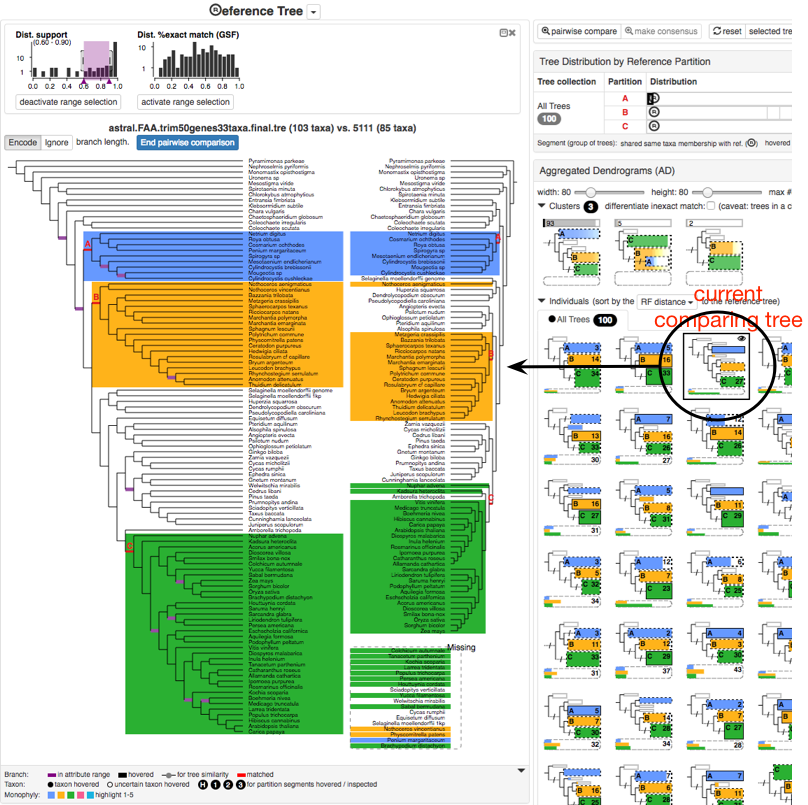
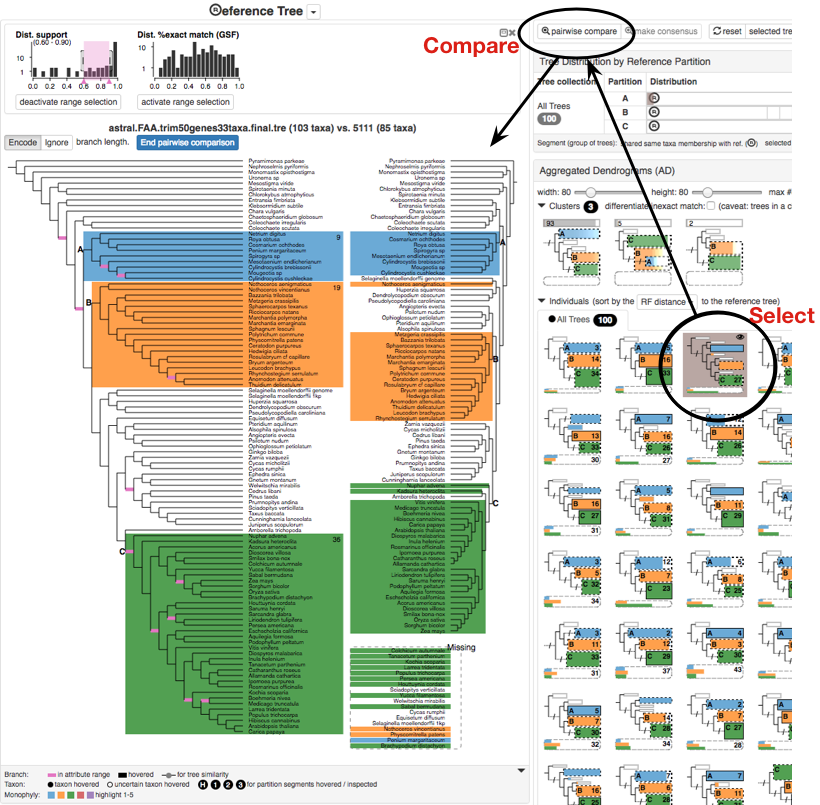
Updated readme

diff --git a/README.md b/README.md
@@ -1,6 +1,12 @@
 VisPhy: Visual Comparison of Phylogenetic Trees
 ====
 
+Documentation Authors: [Zipeng Liu](http://www.cs.ubc.ca/~zipeng/), [Tamara Munzner](http://www.cs.ubc.ca/~tmm/)
+
+## 1 Overview
+
+### 1.1 What is VisPhy
+
 Visually compare a reference phylogenetic tree against some other phylogenetic trees with roughly the same set of taxa to check support and conflict of reference.  
 
 Potential comparisons:
@@ -10,61 +16,94 @@ Potential comparisons:
 * A gene tree vs. other gene trees
 
 
-What VisPhy is NOT for
-----
+### 1.2 What VisPhy is NOT for
 
 * Visual presentation of one phylogenetic tree 
 * Statistical analysis of phylogenetic hypotheses
 * Rigorous analysis of branch lengths in trees (we focus on topology and taxon memberships)
 
-What VisPhy cannot deal with currently but might be able to in the future?
-----
+### 1.3 What VisPhy cannot deal with currently but might be able to in the future?
 
-* Duplicates (paralogs)
-* Current data scale: #nodes < 150 (for best visual effects), #trees < 1000.  This numbers are for best visual effects and 
+* We cannot deal with paralogs.  If a tree contains duplicate copies of a taxon, which are identified by the same label, the pre-processor will fail.
+If they have different labels such as "A_1" and "A_2", you need to be alert that we treat them as they were orthologs: "A_1" in a tree
+can only match "A_1" in another tree, not "A_2" or "A".
+* Current data scale: #nodes < 150 (for best visual effects), #trees < 1000.  These numbers are for best visual effects and 
 performance, but there is no hard limit.  Dataset larger than this can still be processed, but the interface might be slow and require a lot of mouse scrolling.
 
 
-A Short Walk-through of VisPhy
-----
+## 2 A Short Walk-through
 
-![visphy-introduction](assets/images/teaser.png)
+![visphy-introduction](assets/images/overview.png)
+Figure 1
 
-We demonstrate VisPhy interface with a sampled dataset from [the 1KP pilot study](https://gigascience.biomedcentral.com/articles/10.1186/2047-217X-3-17).
+We demonstrate VisPhy with a sampled dataset from [the 1KP pilot study](https://gigascience.biomedcentral.com/articles/10.1186/2047-217X-3-17).
 We compare a species trees inferred using [ASTRAL](https://github.com/smirarab/ASTRAL) with 100 sampled gene trees.
 We do not assume phylogenetic plausibility of this dataset, but only use it for demonstration.
 
-The reference tree (a) is shown on the left, with distributions of branch attribute values (a1) and a detailed dendrogram.
-The purple background range slider in the support value histogram highlights the branches that fall into it in the 
-dendrogram below with purple thick lines.  Here, we have selected three **named branches** A, B and C.
+As shown in Fig.1, the reference tree \[R\] is shown on the left, with distributions of branch attribute values \[R-1\]
+and a detailed dendrogram \[R-2\].
+The pink background range slider in the support value histogram \[R-1\] highlights the branches that fall into it in the 
+dendrogram below with pink thick lines.  
 
-We show different aspects of the tree collection on the right.  The tree distribution view (b) shows how trees are binned
-by the local **taxa membership** of A, B, and C respectively.  The aggregated dendrograms (AD for short) (c) tells the 
-relationships among A, B and C with a much simpler and smaller form of dendrogram.  
-According to the cluster ADs (c1), there are basiclly three different kinds of relationships:
-`(A,(B,C))`, `(C,(A)B)` and `(B,C)` (all taxa in A is missing from that gene tree), while almost all trees have the first kind.
+Here, we have selected three **named branches** A, B and C, whose clade is highlighted in blue, orange, and green.
+We show different aspects of the tree collection \[TC\] on the right.
+The aggregated dendrograms (AD) in the view \[TC-AD\] tells the relationships among A, B and C 
+with a much simpler and smaller yet meaningful form of dendrogram.  
+We find the closest monophyly to A, B and C in each tree (called matches), which is displayed as a block in the AD,
+and elude everything else except some nearby clades as their context information.
+As it still requires quite a lot cognitive effort to browse and compare dozens or hundreds of ADs in \[TC-AD-2\],
+we cluster all ADs according to the relationships among their named clades.
+In \[TC-AD-1\], it clearly shows that there are basiclly three different kinds of relationships:
+`(A,(B,C))`, `(C,(A)B)` and `(B,C)` (all taxa in A is missing from that gene tree), 
+while almost all trees are of the first kind.
 Within each cluster, the "backbone" connections among A, B and C are the same, but the groupings of other taxa outside
-of the named clades can be different.
-You can also see each individual tree as a AD in (c2), and pairwsie compare it with the reference tree in details, as
-shown in the figure below.
+of the named clades can be different since we consider this context information irrelevant.
 
-Auxiliary views (d) include a list of the tree (gene) names, a list of taxon names, 
-tree similarity which projects each tree to a dot in a two dimensional space for a sense of tree distances, and 
-distribution of branch attribute values of the corresponding branches (defined as the the closest or the most similar branch
-of a tree in the tree collection to a named branch in the reference).
+While AD tells the connection **among** named clades, the tree distribution \[TC-TD\] is for taxa membership **within**
+named clades.  Each row shows how trees are binned by the local **taxa membership** of a specific named clade
+with partial segments.  A segment represents a subset of trees that share the same set of taxa (but not necessarily
+the same topology), and the first segment with a circled "R" mark represents the subset that agrees with the reference
+tree.  Long tail is often observed because of different missing taxa across gene trees.
+
+![visphy-pairwise-comparison](assets/images/hover-select.png)
+Figure 2
+
+To check which set of taxa a segment agrees on, you can use the "taxa membership inspection" (alt+click a segment to bring
+out a menu), as shown in Fig. 2 (a).  An aligned column of dots in the reference tree points out the taxa group shared 
+by a numbered segment.  We are inspecting three segments in Fig.2, which is convinient way to compare alternative 
+taxa group to the reference.
+
+If you hover a segment, you can see where are these trees distributed by other named clades and also their ADs with 
+black border (Fig. 2 (b)).  You can also click a segment or a cluster AD to select a subset of trees, which highlights
+those trees in other distributions in brown background (Fig. 2 (c)).  This highlight mechanism can reveal some 
+phylgenetic interaction between different genes, which might become an interesting topic for you to study later,
+such as the subset of trees that agrees with reference on one clade has different groupings for another clade.
+Along with the cluster AD and sub-collection management (introduced later in 4.5), you are able to find trees by
+various criteria.
+
 
 ![visphy-pairwise-comparison](assets/images/pairwise-comparison.png)
+Figure 3
 
+It is always necessary to see a specific tree in details on demand.  Once you select a target tree, you can pairwise
+compare it with the reference tree with a taxon-to-taxon "butterfly" view, as illustrated in Fig. 3.  Taxa in named
+clades are colored accordingly, and hovering on a taxon in one tree triggers a pointer to the same taxon in the other
+tree.
 
-Comparison Computation
-----
+Auxiliary views include a list of the tree (gene) names, a list of taxon names, 
+tree similarity (\[TC-TS\] in Fig. 1) which projects each tree to a dot in a two dimensional space 
+for a sense of tree distances, and 
+distribution of branch attribute values of the closest matched branches (\[TC-CBAE\] in Fig. 1).
 
+## 3 Matching Computation
+
+Here we describe the computation for matching branches between the reference tree and a tree in the tree collection.
 For each branch in the reference tree, we find the the most similar branch in each tree of the tree collection, which
 we call **corresponding branch**.  As we focus on taxa memberships, the similarity function is the 
 [Jaccard Index](https://en.wikipedia.org/wiki/Jaccard_index)
-of two sets of taxa, one from the reference tree, one from the tree collection.
+of two sets of taxa (intersection over union), one from the reference tree, one from the tree collection.
 
-If trees have missing taxa, we calculate the jaccard function after excluding the missing from the two sets.
+If trees have missing taxa, we calculate the Jaccard function after excluding the missing from the two sets.
 
 ```
 Similarity(A, Reference, B, Tree) = JaccardIndex(A - Tree.missing, B - Reference.missing)
@@ -72,81 +111,111 @@ Similarity(A, Reference, B, Tree) = JaccardIndex(A - Tree.missing, B - Reference
 
 `A` is a monophyletic set of taxa in `Reference`, and `B` also a monophyletic set of taxa in `Tree`.  
 `Reference.missing` is the set of missing taxa from the reference tree, which is usually none.
-`Tree.missing` is the set of missing taxa from `Tree` in the tree collection, which is usually not none for a gene tree.
+`Tree.missing` is the set of missing taxa from `Tree` in the tree collection, which is usually non-zero for a gene tree.
 
-If there exists a monophyly `B` in `Tree` such that `Similarity(A, Reference, B, Tree) = 1`, we denote `B` as an
-**exact match** in `Tree` for reference branch `A` (branch and monophyletic taxa set is used interchangeablly here).
-If `B` is the the branch with the highest similarity but does not score 1, it is considered an **inexact match**.
+An **exact match** in `Tree` for reference branch `A` is found if there exists
+a monophyly `B` in `Tree` such that `Similarity(A, Reference, B, Tree) = 1`
+ (branch and monophyletic taxa set is used interchangeablly here).
+An **inexact match** is the highest scored one if there does not exist an exact match.
 The concept of exactness is crucial when you are looking for support or conflict evidence for a reference branch.
 
 > Caveat: The exact match only says it has the same **set** of taxa, but not necessarily the same **topology** within.
 > So does the inexact match.
 
 
-Reference Tree
-----
+## 4 Details
 
-We show the distribution of support values in the reference tree (if provided), and of the percentage of exact match,
+We introduce each components in details.
+
+### 4.1 Reference Tree
+
+In Fig. 4, We show the distribution of support values in the reference tree (if provided), and distribution of the 
+percentage of exact match,
 which is also called gene support frequency (GSF) in some phylogenetic literature.  A branch with high GSF means that
 there are lots of trees that has the same (in terms of taxa membership) monophyly in the tree collection, which can be
 a signal that this branch is strongly supported.  You can drag the slider handle to customize the range of either attribute
-to find interesting branches for investigation. 
+to find interesting branches for investigation.  For example, in Fig. 4, we highlighted all branches whose support is in
+\[0, 0.7\] in pink.  Hovering on a branch displays a tooltip showing every attributes 
+of that branch at the upper right corner.
 
-![branch-menu](assets/images/menu.png)
+![branch-menu](assets/images/reference-tree.png)
+Figure 4
 
-In the reference dendrogram, you can do `alt+click` on a branch to bring up a menu as shown above:
+In the reference dendrogram, you can hit `alt+click` on a branch to bring up a menu (see Fig. 4):
 
-* Highlight (shortcut: `click`):
+* Highlight (does NOT create a named clade) (shortcut: `click`):
   - color the descendants in the reference tree and pairwise comparing tree (if any); 
-  - color the taxa in the aggregated dendrograms.  
-* Match (shorcut: `command+click` on Mac, `ctrl+click` on Windows): 
+  - color the taxa in the blocks of aggregated dendrograms.  
+* Match (create a new named clade) (shortcut: `command+click` on Mac, `ctrl+click` on Windows): 
   - find the corresponding branch in each tree of the tree collection; 
-  - put trees into bins by the taxa membership under their corresponding branches and render a bar segment gragh in the Tree Distribution view;
-  - separate the named monophyly from the rest of the tree in the aggregated dendrograms; 
-  - update the distribution of attribute values of corresponding branches
+  - put trees into bins by the taxa membership under their corresponding branches and add a row in the tree distribution (\[TC-TD\] in Fig. 1);
+  - change the layout of ADs to reflect the new named clade;
 * Actions related to user specified taxa group (create, add, remove from, delete): 
-  - manage a taxa group specified by user, usually a paraphyletic group (as you can match monophyletic group by the action above)
+  - manage a taxa group specified by user, usually a paraphyletic group (as you can already match monophyletic group 
+  with the action above)
 * Re-compute tree similarity: 
-  - re-calculate the distance between trees to be the the local similarity (Jaccard Index) instead of the 
+  - re-calculate the distance between trees to be the local similarity (Jaccard Index) instead of the 
     global similarity (Robinson-Foulds distance);
   - re-arrange dots in the tree similarity view.
 * Re-root: 
   - pick this monophyly or taxa as the outgroup;
-  - re-root the trees
+  - re-root all trees
   - redo corresponding branch calculation
 
-When you are comparing a tree with the reference tree, it is displayed as a "butterfly" style of dendrograms, named clades
-are both trees are highlighted with the same color for easy lookup.  If you hover on a taxon, you are able to see where it 
-is in the other tree. You can also click the branch to highlight more clades, but with a limit of 5 colors.
+We have a limit of 5 highlight colors: blue, orange, green, red, purple, in order to maintain obvious perceptual 
+difference in both the reference tree and the ADs.  
+We reuse these colors in a circular way once there are too many clades to highlight, which is not recommended.
 
 
-Tree Distribution
-----
+### 4.2 Tree Distribution
 
-![tree-distribution](assets/images/tree-dist.png)
+![tree-distribution](assets/images/tree-distribution.png)
+Figure 5
 
-Tree distribution shows how trees distributed according to reference branches of interest.  Once a reference branch is 
-matched, the taxa members under the matching branch in the tree collection are examined and put into bins (segments).  
-Within a segment, trees share the same set of taxa under their matching branches, and different across segments.  
-First segment with an reference “R” mark represents the segment which shares the same taxa group as the reference tree, 
+Tree distribution shows how trees distributed according to reference branches of interest (named branches).  
+Once a reference branch is being matched, 
+the taxa members under the matching branch in the tree collection are examined and put into bins (segments).  
+Within a segment, trees share the same set of taxa under their corresponding branches, and different across segments.  
+First segment with the circled “R” mark represents the segment which shares the same taxa group with the reference tree, 
 and following that, conflicting trees sorted by popularity.
 
-You can hover on the segment to see where the trees in other segmentation, which is a useful tool to check interaction 
-effect across different branches.  For example, in the figure above, all trees in the second segment of B (the most 
-popular conflicting trees for B) also disagree with A (not a single tree fall in the first segment of A), which might 
+You can hover or select on the segment to highlight where the trees in other segmentation, 
+which is a useful tool to check interaction effect across different branches.  
+For example, in Fig. 5 top, all trees in the second segment of A (the most 
+popular conflicting trees for A) also disagree with B (not a single tree fall in the first segment of B), which might 
 suggest interesting interaction between branch A and B.
 
-TODO: membership inspection
+![tree-distribution](assets/images/inspect-membership.png)
+Figure 6
 
-Aggregated Dendrogram
-----
+We put trees into bins and we also tell you why they are binned together: their corresponding branches share the same 
+set of taxa under them.  What taxa is in this set?  You can either hover on a segment, which gives you circle markers 
+next to the taxa labels in the reference tree, or alt+click a segment and select "inspect taxa membership" to persist
+these markers even when you move away your mouse (Fig. 6).  
+Persisting the taxa membership markers can help with comparing multiple segments (different sets of taxa).
 
-TODO
+Usually the tree distribution is used together with the aggregated dendrograms and pariwise comparison to understand
+why certain trees do not agree with the reference.
 
-Auxiliary Views
-----
 
-#### Tree Similarity
+### 4.3 Aggregated Dendrogram
+
+#### 4.3.1 Layout
+
+#### 4.3.2 Visual Elements
+
+For inexact match, there are a few cases that could possibly have happened:
+
+* Some taxa are missing from a tree, so they are missing from that corresponding clade (the clade under a corresponding branch).
+* The taxa in the named clade (monophyly) of the reference tree are paraphyletic in the trees that belong to this segment.
+* Some taxa in the named clade of the reference tree are closer to others, which gets them "kicked out".
+* There are "intruders" getting into the corresponding clade.
+
+TODO: show figures for each of these cases
+
+### 4.4 Auxiliary Views
+
+#### 4.4.1 Tree Similarity
 
 ![tree-similarity](assets/images/tree-sim.png)
 
@@ -170,22 +239,19 @@ Similar to the branch attribute histograms for the reference tree, you can inter
 
 You can change the scope of trees or the reference branch from the menu.
 
-#### Tree List
+#### 4.4.2 Tree List
 
 
-#### Taxa List 
+#### 4.4.3 Taxa List 
 
 
-Tree Selection
-----
+### 4.5 Tree Selection
 
 
-How to export figures
-----
+### 4.6 How to export figures
 
 
-How to upload your own data
-----
+## 5 How to upload your own data
 
 
 
